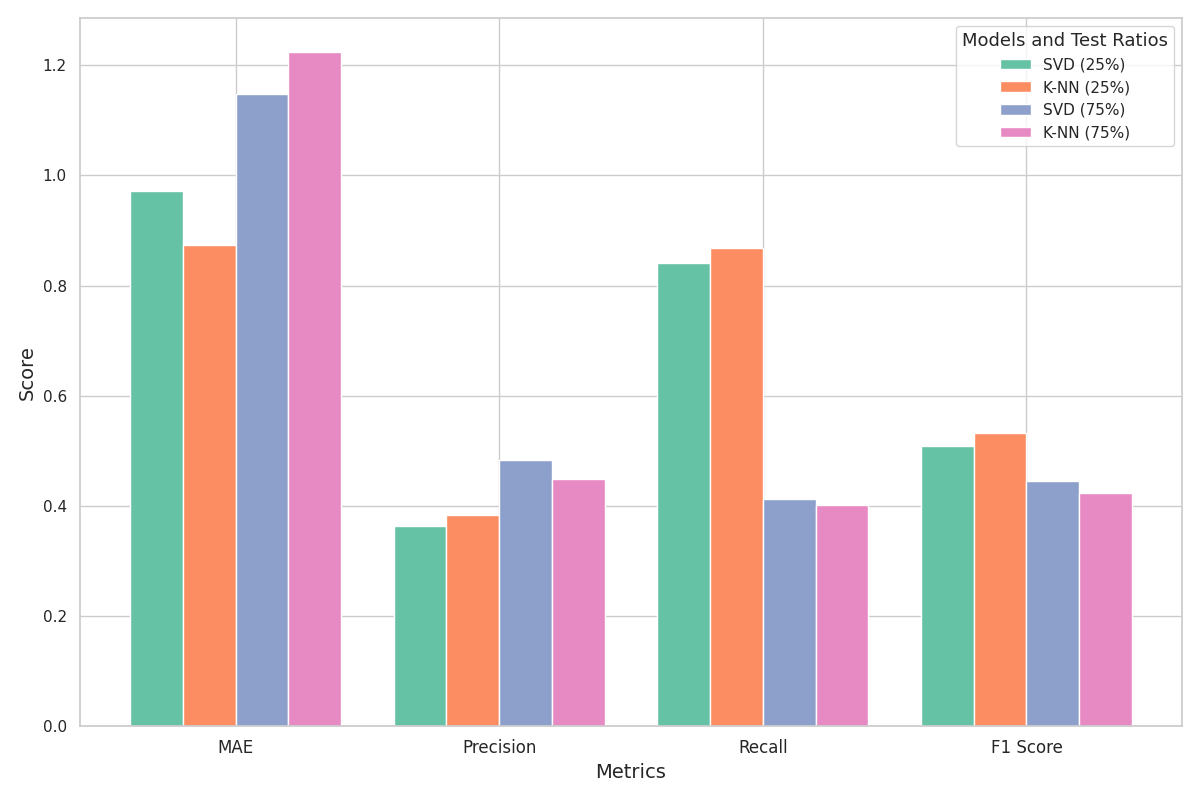
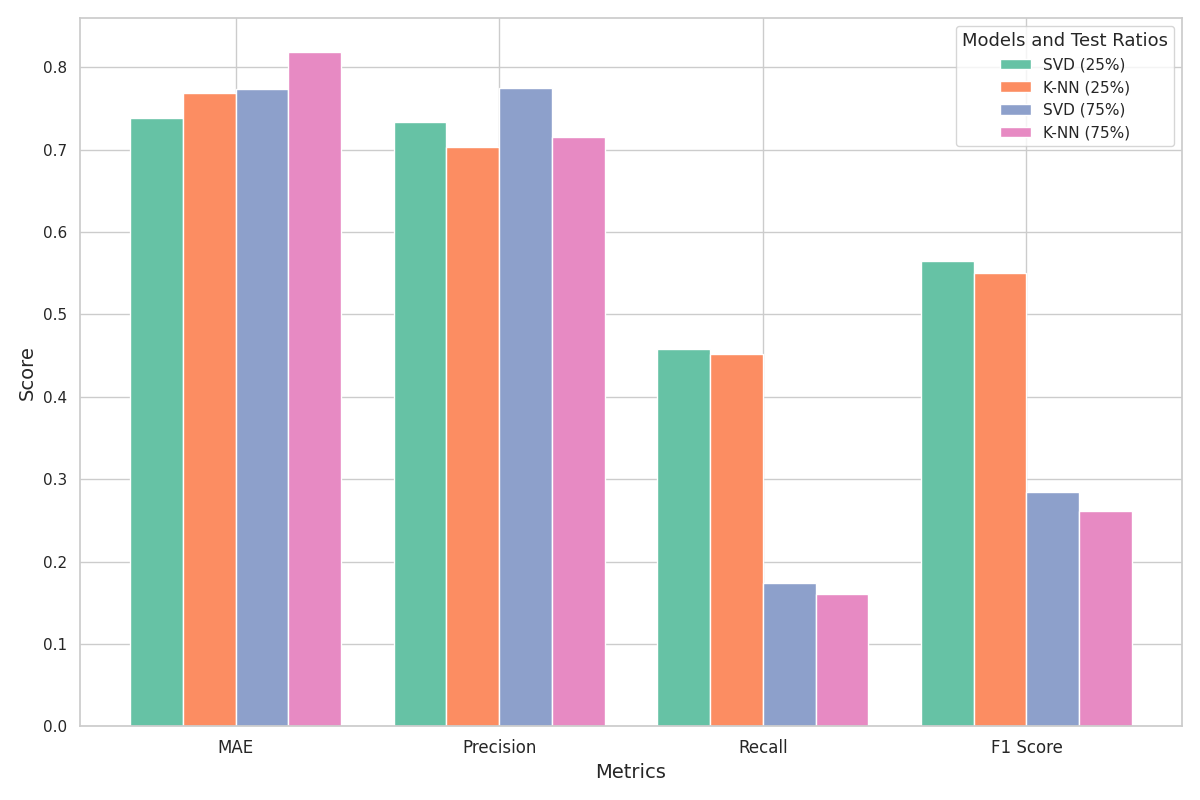
Use the movie dataset in all tasks

diff --git a/task3.py b/task3.py
@@ -1,9 +1,7 @@
 from collections import defaultdict
-from tkinter import N
 
 import matplotlib.pyplot as plt
 import numpy as np
-import pandas as pd
 import seaborn as sns
 from surprise import SVD, Dataset, KNNWithMeans, Reader
 from surprise.model_selection import train_test_split
@@ -27,30 +25,6 @@ def precision_recall_at_n(predictions, n=10, threshold=3.5):
         recalls[uid] = n_rel_and_rec / n_rel if n_rel != 0 else 0
 
     return precisions, recalls
-
-
-def load_csv():
-    """
-    Load data from CSV and prepare it for the Surprise library.
-    """
-    csv_file = pd.read_csv("data.csv", delimiter=";")
-    temp = np.delete(csv_file.to_numpy(), np.s_[0], axis=1)
-    ratings = temp.T.flatten()
-
-    users, movies = [], []
-    for i in range(50):
-        for j in range(20):
-            movies.append(j)
-            users.append(i)
-
-    movies = np.array(movies)
-    users = np.array(users)
-
-    ratings_dict = {"userID": users, "itemID": movies, "rating": ratings}
-    df = pd.DataFrame(ratings_dict)
-
-    reader = Reader(rating_scale=(1, 5))
-    return Dataset.load_from_df(df[["userID", "itemID", "rating"]], reader)
 
 
 def evaluate_model(model, trainset, testset, N_list=range(10, 101, 5)):
@@ -128,7 +102,9 @@ def plot_results(results_25, results_75, N_list):
 
 
 def main():
-    data = load_csv()
+    reader = Reader(line_format="user item rating timestamp", sep="\t")
+    data = Dataset.load_from_file("./ml-100k/u.data", reader=reader)
+    # data = Dataset.load_builtin("ml-100k")
 
     N_list = range(1, 101, 5)
 
@@ -138,7 +114,7 @@ def main():
     # Best K
     best_k_25 = None
     best_f1_25 = 0
-    for k in range(5, 51, 5):
+    for k in range(1, 101, 5):
         knn_model = KNNWithMeans(
             k=k, sim_options={"name": "pearson", "user_based": True}, verbose=False
         )
@@ -162,7 +138,7 @@ def main():
     # Best K
     best_k_75 = None
     best_f1_75 = 0
-    for k in range(5, 51, 5):
+    for k in range(1, 101, 5):
         knn_model = KNNWithMeans(
             k=k, sim_options={"name": "pearson", "user_based": True}, verbose=False
         )

diff --git a/task2.py b/task2.py
@@ -2,35 +2,10 @@ from collections import defaultdict
 
 import matplotlib.pyplot as plt
 import numpy as np
-import pandas as pd
 import seaborn as sns
 from surprise import SVD, Dataset, KNNWithMeans, Reader
 from surprise.accuracy import mae
 from surprise.model_selection import train_test_split
-
-
-def load_csv():
-    """
-    Load data from CSV and prepare it for the Surprise library.
-    """
-    csv_file = pd.read_csv("data.csv", delimiter=";")
-    temp = np.delete(csv_file.to_numpy(), np.s_[0], axis=1)
-    ratings = temp.T.flatten()
-
-    users, movies = [], []
-    for i in range(50):
-        for j in range(20):
-            movies.append(j)
-            users.append(i)
-
-    movies = np.array(movies)
-    users = np.array(users)
-
-    ratings_dict = {"userID": users, "itemID": movies, "rating": ratings}
-    df = pd.DataFrame(ratings_dict)
-
-    reader = Reader(rating_scale=(1, 5))
-    return Dataset.load_from_df(df[["userID", "itemID", "rating"]], reader)
 
 
 def precision_recall_at_n(predictions, n=10, threshold=3.5):
@@ -100,7 +75,7 @@ def evaluate_model(algo, train_set, test_set, n=5, threshold=4):
     algo.fit(train_set)
     predictions = algo.test(test_set)
 
-    mae_score = mae(predictions)
+    mae_score = mae(predictions, verbose=False)
     precisions, recalls = precision_recall_at_n(predictions, n=n, threshold=threshold)
 
     precision_avg = np.mean(list(precisions.values()))
@@ -111,7 +86,9 @@ def evaluate_model(algo, train_set, test_set, n=5, threshold=4):
 
 
 def main():
-    data = load_csv()
+    reader = Reader(line_format="user item rating timestamp", sep="\t")
+    data = Dataset.load_from_file("./ml-100k/u.data", reader=reader)
+    # data = Dataset.load_builtin("ml-100k")
 
     # Metrics storage for both split cases
     metrics_25 = {"SVD": [], "KNN": []}

diff --git a/README.md b/README.md
@@ -64,18 +64,18 @@ For both sparsity levels, the MAE decreases as K increases, reaching a minimum b
 <details>
   <summary>Task Description</summary><br>
 
-  Mitigation of sparsity problem: show how SVD (Singular Value Decomposition), the Funk variant, can provide a better MAE than user-based K-NN using the provided [data](data.csv).
+  Mitigation of sparsity problem: show how SVD (Singular Value Decomposition), the Funk variant, can provide a better MAE than user-based K-NN using the provided [dataset](https://grouplens.org/datasets/movielens/100k/).
 </details>
 
 ---
 
-In case of 25% missing ratings, Funk SVD yields a higher MAE than K-NN, while in the 75% missing ratings case, Funk SVD outperforms K-NN. This suggests that SVD is more effective in handling high sparsity, as it can better generalize from the data and make more accurate predictions. The precision, recall, and F1 scores also show that SVD performs better than K-NN in both cases, indicating that SVD is more effective in capturing relevant items and making accurate recommendations.
+In both cases, 25% and 75% missing ratings, Funk SVD outperforms K-NN. This suggests that SVD is more effective in handling high sparsity, as it can better generalize from the data and make more accurate predictions. The precision, recall, and F1 scores also show that SVD performs better than K-NN in both cases, indicating that SVD is more effective in capturing relevant items and making accurate recommendations.
 
 <br>
 <div align="center">
   <img src="figures/task2.png" width="800" height="auto"/>
   <br><br>
-  <em>MAE, Precision, Recall, and F1 Score comparison between K-NN and Funk SVD.</em>
+  <em>MAE, Precision, Recall, and F1 Score comparison between SVD and K-NN for 25% and 75% missing ratings.</em>
 </div>
 <br>
 
@@ -95,8 +95,8 @@ As N increases, precision decreases while recall remains high. With higher N, th
 
 Best K for K-NN model:
 
-- 25% missing ratings: 20 with F1 Score equal to 0.138.
-- 75% missing ratings: 5 with F1 Score: equal to 0.261.
+- 25% missing ratings: 45 with F1 Score equal to 0.426.
+- 75% missing ratings: 50 with F1 Score: equal to 0.538.
 
 <br>
 <div align="center">
